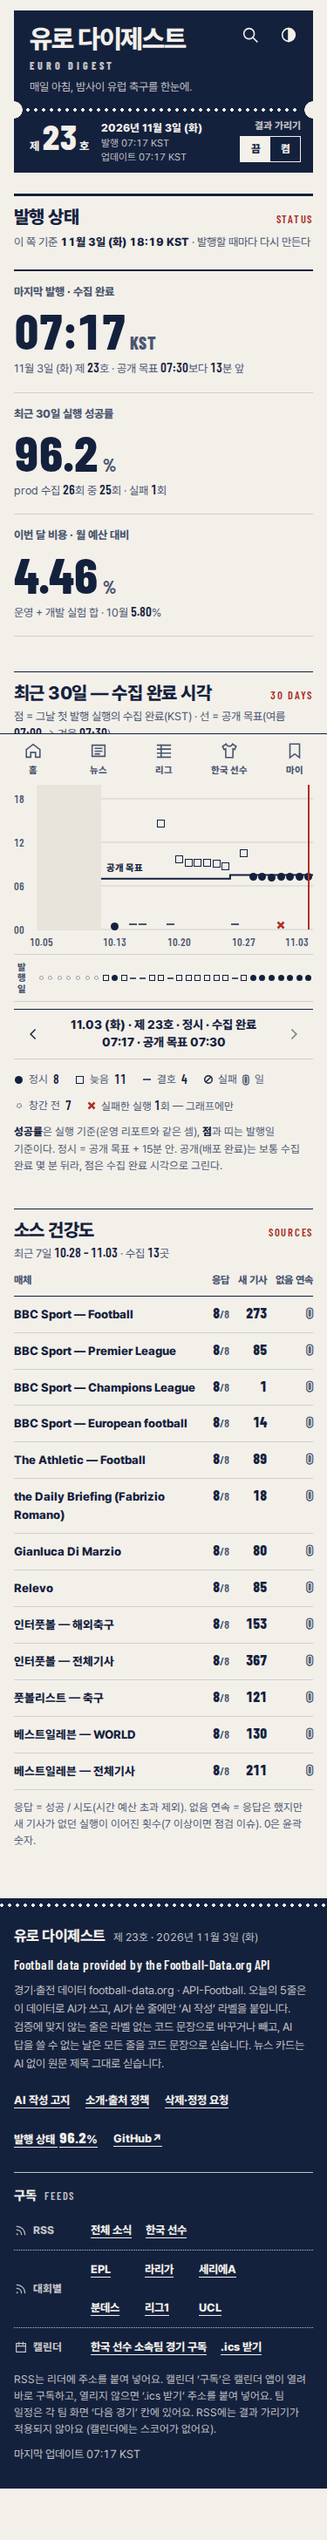
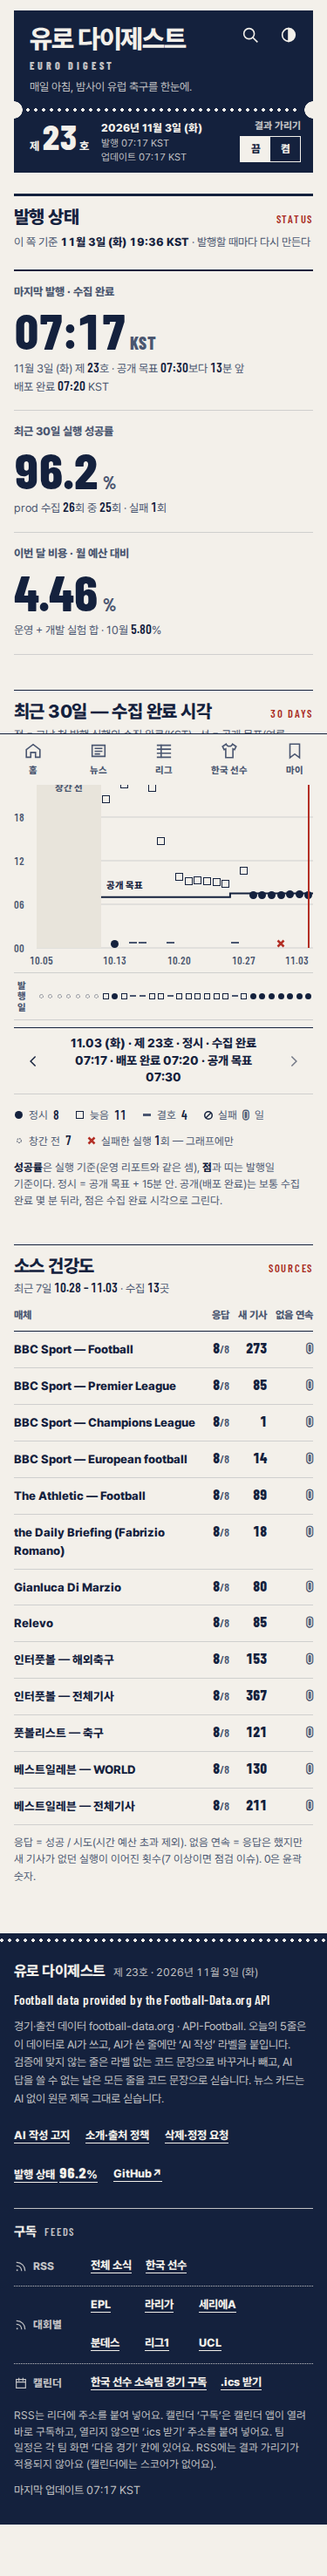
docs: M5-15 추가 결정 — 배포 완료 시각 Deployments API · /my h1 "마이 팀" (M5-15, P-1)
plan M5-15 완료 줄 덧붙임 · PRD §15 D71 ②③ · DECISIONS D3 §10 #3 · #7 · DESIGN §11.36 · 시각 비교 스크린샷 갱신(배포 줄)

diff --git a/docs/PRD.md b/docs/PRD.md
@@ -719,7 +719,7 @@
 | D68 | 이적 창 모드·팀 프로필 출력 상한 (2026-11-02 사용자 결정 — M4-03·M4-06) | ① **이적 창 모드 = 5대 리그 창의 합집합**(FR-105 — 어느 리그든 열려 있으면 켬, 6월 EPL·리그 1만 열린 기간 포함) + **마지막 마감 뒤 24시간 유예**(`TRANSFER_WINDOW_GRACE_HOURS` — 마감일 밤 공식 발표가 실리는 다음 날 아침 호까지 선별 가중·홈 이적 상단 유지, 리그 마감이 엇갈리면 모드가 끝난 시각 기준). 선별 가중 `boost` 1.5(이적 관련 최대 배수 1.2 × 1.5 × 'here we go' 1.3 = 2.34 < 한국 선수 3 — 2 이상으로 올리면 한국 선수 카드를 넘어섬) ② **창 일정**: 2026-27 겨울은 EPL·리그 1·세리에 A 공식 발표, 분데스리가·라리가는 보도 기준, **2027 여름 5개 리그는 2026 패턴 추정치 유지**(`sourceUrl` 없음 = 추정 — 발표되면 운영 루틴에서 교정) ③ **팀 프로필(LLM 호출 지점 #2) `max_tokens` 32,768**(CLAUDE §1-3 승인 — 20팀 묶음 실측 thinking 10~16K로 16,384에서 5요청 중 3 잘림, thinking은 팀 수와 무관해 묶음을 줄여도 요청 수만 늘어남). 20팀 묶음·5요청 유지, 다른 호출 지점은 16,384 그대로. 단계 상한 12→18분 · LLM 창 10→15분 · weekly 작업 상한 35→40분. 실측 dev 전체 1회 약 $0.025/주 | FR-53·FR-56·FR-105, D28·D57, plan M4-03·M4-06 |
 | D69 | PWA 오프라인 화면·새 버전 토스트 (2026-11-02 사용자 결정 — M4-13) | ① **공개 URL `/offline/` 추가**(noindex·sitemap 제외): 서비스워커가 네트워크·캐시 모두 실패한 페이지 이동을 `/offline/?from=<경로>`로 보낸다(원래 주소에 그리면 Next 라우터가 주소를 바꾸는 문제) — 404와 같은 D0 문법, '다시 시도' + '저장해 둔 호'(최근 3일) ② **새 버전 토스트 "새 소식이 있어요 · 새로고침"은 닫을 때까지 유지**(DESIGN §9.2 Toast 2.4초 자동 사라짐의 예외 — 행동 버튼이 있어서). 첫 설치에는 띄우지 않고, 사실상 발행마다 새 버전 | FR-120·FR-121, DESIGN §9.2·§11.25, plan M4-13 |
 | D70 | M4 검증 결정 3건 (2026-11-02 사용자 결정 — M4 코드 리뷰·M4-09) | ① **검색 단축키는 ⌘K/Ctrl+K만**(FR-132의 '/' 제거 — WCAG 2.1.4 문자 키 단축키, 음성 입력 사용자의 오작동 방지). 마스트헤드 키 표시는 `Ctrl K`(하이드레이션 값) → Mac이면 `⌘K`, `aria-keyshortcuts` ② **구독형 캘린더(팀별·한국 선수 소속팀 묶음)는 `webcal://` 구독 링크 + https '.ics 받기' 병기**(FR-115·FR-123 — https만이면 iOS·데스크톱 캘린더가 한 번 가져오기로 처리), 경기별 .ics는 https 그대로 ③ **팀 한줄평 블록은 결과 가리기에서 가리지 않음**(주 1회 집계 문장 — D64 ④ 집계값 원칙, DECISIONS M4 미니 게이트 #5의 예외로 기록). 함께: 온보딩 진입 줄 버튼 문구 '다음에' → **'건너뛰기'**(동작은 영구 건너뛰기 — '나중에 다시'로 읽히지 않게) | FR-37·FR-113·FR-115·FR-123·FR-132, D64, plan M4-09·M4-14·M4-16 |
-| D71 | D3 아이콘·OG·빈 상태·상태 페이지 디자인 결정 (2026-11-02~03 사용자 결정 — D3 시안 선택) | ① **시안**: C 등번호 기반 2차 혼합안. 에이전트 추천 1차 혼합안(A 아이콘·OG + C 빈 상태 + B `/offline/`·`/status`, 커밋 5552dbf)은 사용자 검토 뒤 기각. **앱 아이콘·파비콘 = C 스타일 "ED"**(벽돌 레드 면 + 지면색 ED + 짧은 괘선 — 숫자 "5" 대신, 16·32px 픽셀 격자, favicon.svg·ico 추가) — 상세·혼합 지시는 `docs/design/DECISIONS.md` D3 절 ② **OG**: 경로 `/og/default.png`·`/og/news/{date}.png`·`/og/competitions/{comp}.png`·`/og/teams/{team}.png` 확정(plan M5-01 ❓ 해소), 홈 = 기본 OG·`/news/` = 최신 호 날짜 OG, `twitter:card` `summary` → `summary_large_image` + `og:image:alt`. 기본·날짜 = 벽돌 레드 면 + 큰 숫자, 대회·팀 = 크림 면 + 거대 약칭·약어. **결과 노출 0**(워드마크·호수·날짜·대회·팀 이름만 — D30). (2026-11-03 사용자 결정 — M5-01) **쪽 이름형 OG** `/og/pages/{name}.png`(기본 OG에 쪽 제목만 바꾼 판) = 고정 쪽(`/korean-players/`·`/national-team/`·`/transfers/`·`/tonight/`·`/search/`·`/my/`·`/about/`), 한국 선수 개별 쪽·주간 리포트는 기본 OG. (2026-11-03 사용자 결정 — M5-15) `/status/`도 쪽 이름형 OG · 대회 OG는 거대 약칭과 정식 이름이 글자 그대로 같으면(라리가) 정식 이름 줄을 숨긴다(다른 대회 그대로) · `/my/` 쪽 제목(OG 글자·og:title·문서 제목) = "마이 팀"(내비 라벨 "마이" 그대로) ③ **`/status`**: 비용은 예산 대비 %만(prod+dev 합산, 금액 비공개), 성공률 = 실행 기준 %(KPI와 같은 셈) + 30칸 발행일 띠(정시·늦음·결호·실패를 따로), 배포 완료 시각은 지금 데이터가 없어 자리(M5-15에서 출처 결정). (2026-11-03 사용자 결정 — M5-15) **`/status/`는 noindex·sitemap 제외**(뒤표지 '발행 상태 {n}%' 링크로만 들어온다), 배포 완료 시각은 실행 기록에 없어 칸을 숨긴다(출처 제안은 plan M5-15) ④ **빈 상태 = 기존 모티프만 조합한 조형**(그림 0 — '일러스트' = 조형, DESIGN §1 원칙 4 유지): 홈 5줄 **S4 가족**(경기 없음·A매치 휴식기·비시즌이 한 틀 — 이유 블록만 다름, 비시즌 날짜 34px → N2), **A매치 휴식기 변형 신설**(DECISIONS M1-37 #2 변경) — 판정: 홈 5줄에서만(날짜 아카이브는 S4)·mode `empty` + `no-matches`(결과 지연은 오류 상자 그대로 — D60)·우선순위 비시즌 → A매치 휴식기(`restPeriodOf` `international-window`) → S4·실을 경기 = `nationalWindowOn` 기간 경기(연기 제외, 킥오프가 지난 경기는 "끝남"만 — 스코어 없음)·`national-team.json`이 없으면 S4. 검색 결과 없음 = 윤곽 0 N2, `/offline/` = 저장한 호 수 + 호수 거터 목록 ⑤ **팀 OG 거대 약어 대비 내부 하한 5.3**: 채움 = 상의 → 하의 → 잉크 중 크림 면 대비 5.3 이상인 첫 색(111팀 중 45팀 바뀜 — 하의 16·잉크 29, 최저 5.32, 데이터·스키마 변경 없음) ⑥ **DESIGN §2.2 규칙 변경**: '레드를 넓은 면으로 깔지 않는다(다크 티켓만 예외)'의 예외에 앱 아이콘·파비콘·OG 기본/날짜 면·스플래시를 더한다(화면 안 규칙 그대로). **스플래시 manifest `background_color` = `#9E2F28`**(아이콘 면과 같은 색, 라이트·다크 공통). 새 토큰 0, OG 견본 변수 `--og-*` 4개 폐기 | DR-07·DR-10·FR-120·FR-121·FR-130, D12·D13·D30·D60, plan D3-03·M5-01·M5-02·M5-15·M5-17, `docs/design/d3/`, DECISIONS D3 |
+| D71 | D3 아이콘·OG·빈 상태·상태 페이지 디자인 결정 (2026-11-02~03 사용자 결정 — D3 시안 선택) | ① **시안**: C 등번호 기반 2차 혼합안. 에이전트 추천 1차 혼합안(A 아이콘·OG + C 빈 상태 + B `/offline/`·`/status`, 커밋 5552dbf)은 사용자 검토 뒤 기각. **앱 아이콘·파비콘 = C 스타일 "ED"**(벽돌 레드 면 + 지면색 ED + 짧은 괘선 — 숫자 "5" 대신, 16·32px 픽셀 격자, favicon.svg·ico 추가) — 상세·혼합 지시는 `docs/design/DECISIONS.md` D3 절 ② **OG**: 경로 `/og/default.png`·`/og/news/{date}.png`·`/og/competitions/{comp}.png`·`/og/teams/{team}.png` 확정(plan M5-01 ❓ 해소), 홈 = 기본 OG·`/news/` = 최신 호 날짜 OG, `twitter:card` `summary` → `summary_large_image` + `og:image:alt`. 기본·날짜 = 벽돌 레드 면 + 큰 숫자, 대회·팀 = 크림 면 + 거대 약칭·약어. **결과 노출 0**(워드마크·호수·날짜·대회·팀 이름만 — D30). (2026-11-03 사용자 결정 — M5-01) **쪽 이름형 OG** `/og/pages/{name}.png`(기본 OG에 쪽 제목만 바꾼 판) = 고정 쪽(`/korean-players/`·`/national-team/`·`/transfers/`·`/tonight/`·`/search/`·`/my/`·`/about/`), 한국 선수 개별 쪽·주간 리포트는 기본 OG. (2026-11-03 사용자 결정 — M5-15) `/status/`도 쪽 이름형 OG · 대회 OG는 거대 약칭과 정식 이름이 글자 그대로 같으면(라리가) 정식 이름 줄을 숨긴다(다른 대회 그대로) · `/my/` 쪽 제목(OG 글자·og:title·문서 제목·h1) = "마이 팀"(내비 라벨 "마이" 그대로) ③ **`/status`**: 비용은 예산 대비 %만(prod+dev 합산, 금액 비공개), 성공률 = 실행 기준 %(KPI와 같은 셈) + 30칸 발행일 띠(정시·늦음·결호·실패를 따로), 배포 완료 시각은 지금 데이터가 없어 자리(M5-15에서 출처 결정). (2026-11-03 사용자 결정 — M5-15) **`/status/`는 noindex·sitemap 제외**(뒤표지 '발행 상태 {n}%' 링크로만 들어온다), 배포 완료 시각은 **GitHub Deployments API**(deploy.yml 빌드 때 github-pages 지난 배포 성공 시각을 읽어 지난 발행일에 싣고 오늘 호는 '배포 중', 읽기 실패·로컬 빌드는 칸 숨김 — `deployments: read`는 빌드 job에만, 2026-11-03 사용자 결정) ④ **빈 상태 = 기존 모티프만 조합한 조형**(그림 0 — '일러스트' = 조형, DESIGN §1 원칙 4 유지): 홈 5줄 **S4 가족**(경기 없음·A매치 휴식기·비시즌이 한 틀 — 이유 블록만 다름, 비시즌 날짜 34px → N2), **A매치 휴식기 변형 신설**(DECISIONS M1-37 #2 변경) — 판정: 홈 5줄에서만(날짜 아카이브는 S4)·mode `empty` + `no-matches`(결과 지연은 오류 상자 그대로 — D60)·우선순위 비시즌 → A매치 휴식기(`restPeriodOf` `international-window`) → S4·실을 경기 = `nationalWindowOn` 기간 경기(연기 제외, 킥오프가 지난 경기는 "끝남"만 — 스코어 없음)·`national-team.json`이 없으면 S4. 검색 결과 없음 = 윤곽 0 N2, `/offline/` = 저장한 호 수 + 호수 거터 목록 ⑤ **팀 OG 거대 약어 대비 내부 하한 5.3**: 채움 = 상의 → 하의 → 잉크 중 크림 면 대비 5.3 이상인 첫 색(111팀 중 45팀 바뀜 — 하의 16·잉크 29, 최저 5.32, 데이터·스키마 변경 없음) ⑥ **DESIGN §2.2 규칙 변경**: '레드를 넓은 면으로 깔지 않는다(다크 티켓만 예외)'의 예외에 앱 아이콘·파비콘·OG 기본/날짜 면·스플래시를 더한다(화면 안 규칙 그대로). **스플래시 manifest `background_color` = `#9E2F28`**(아이콘 면과 같은 색, 라이트·다크 공통). 새 토큰 0, OG 견본 변수 `--og-*` 4개 폐기 | DR-07·DR-10·FR-120·FR-121·FR-130, D12·D13·D30·D60, plan D3-03·M5-01·M5-02·M5-15·M5-17, `docs/design/d3/`, DECISIONS D3 |
 
 ### 15.1 남은 확인 사항 (M0에서 검증)
 basic_plan §12의 외부 확인 항목 중 **남은 것은 상표·저장소명(M0-31)과 2026-27 한국 선수 명단(M0-32)**이며, M0 검증 결과로 확정한 뒤 PRD 해당 항목을 갱신한다.

diff --git a/docs/plan.md b/docs/plan.md
@@ -596,8 +596,8 @@ D0에서 실제로 비교할 방향의 출발점이다. 최소 두 축(레이아
 - [ ] M5-14 문서 정리: README, CLAUDE.md §13 미결 사항, PRD 비용표·결정 사항 갱신
 - [x] M5-15 🆕 `/status` 공개 상태 페이지(빌드 시 `runs.json`·`runs-dev.json`에서 생성): 마지막 발행 시각, 최근 30일 성공률, 소스 건강도, 이번 달 비용 사용률(prod+dev 합산, 예산 대비 %) — 푸터에서 링크 (P-1)
   - 🆕 D3 이월(2026-11-03): 시안 사양 = DESIGN §9.3 D3 `/status`(PRD §15 D71 ③) — N1 숫자판 3칸(마지막 발행 · 수집 완료 KST · 최근 30일 **실행 기준** 성공률 % · 이번 달 비용 **% 두 자리만**, 금액 금지) + 점 그래프(수집 완료 시각 · 공개 목표 계단선) + **30칸 발행일 띠**(정시 · 늦음 · 결호 · 실패 ⊘ · 창간 전) + 날짜 이동(‹ › 44px · 상세 줄 `aria-live` · 화면 밖 30일 목록) + 소스 표(최근 7일). 서버 컴포넌트 + 날짜 선택 섬 1개(gzip 약 0.4KB), 빌드 때 `runs.json` · `runs-dev.json`(`publishSlot` · 창간 전 제외) · `source-health.ts` · `cost.ts` `monthToDate`에서 계산, "이 쪽 기준" = 빌드 시각. **배포 완료 시각**은 지금 데이터가 없어 자리 — 출처를 착수 때 정하고 없으면 칸을 숨긴다. 뒤표지 링크 = "발행 상태 {성공률}%"(`colophon.tsx`). 열린 것: `/status` 색인 여부(noindex · sitemap)
-  - 2026-11-03 완료: **사용자 결정(11-03)** `/status`는 noindex · sitemap 제외(뒤표지 링크로만 — DECISIONS D3 §8 #2 · PRD §15 D71 ③) · 쪽 이름형 OG(`OG_PAGES.status`) · 라리가 대회 OG 정식 이름 줄 숨김(거대 약칭과 글자 그대로 같을 때만 — `ogFullNameLine`) · `/my` 쪽 제목 "마이 팀"(OG · og:title · 문서 제목, 내비 · h1 "마이" 그대로) → `npm run build:og`(laliga · pages/my · pages/status). **구현**: 화면 모델 순수 함수 `src/lib/status-view.ts` `buildStatusView`(운영 리포트와 같은 `publishDays` · `collectRunStats` · `monthBudgetUsage` · `lastPublication` + `assessSourceHealth`) · 로더 `src/lib/data/status.ts`(기준 시각 = 빌드 시각, 뒤표지 숫자와 공유) · 지면 `src/components/status/status-body.tsx`(서버 — N1 숫자판 3칸 · 점 그래프 + 계절 계단선 · 30칸 띠 · 범례 · 화면 밖 30일 목록 · 소스 표) + 섬 `status-day-picker.tsx`(‹ › 44px · aria-live · 선택 막대 · 그래프 면 누름 — `/status` 141.9KB, 같은 셸 `/about` 대비 +0.7KB) · 뒤표지 "발행 상태 {n}%"(삭제·정정 요청 뒤, 숫자 Barlow 800 17px). **동작 불변 이동**: 소스 건강도 판정부 → `src/lib/source-health.ts`, `DEFAULT_MONTHLY_BUDGET_USD` → `src/lib/ops-metrics.ts`(scripts는 다시 내보내기만 — 같은 함수 · 값 대조 테스트). 11-03 빌드 실값: 성공률 96.2%(26회 중 25회) · 비용 11월 4.46%(10월 5.80%) · 띠 정시 8 · 늦음 11 · 결호 4 · 창간 전 7. 시안과 다른 점: 배포 완료 시각 칸 숨김 · 오늘 '발행 전' 상태(기호 없음 + 글자) · Tier 열 1024 이상(시안 520 — §7.1). 검사: 단위 status-view 19 · source-health 이동 3 · og +3 · app-shell 갱신 · e2e `status.spec`(noindex · sitemap · OG · 뒤표지 링크 = 숫자판 · 날짜 이동 · 면 누름 · 넘침 · axe 라이트/다크) · 견본 `/specimen/status/` + e2e(띠 6종 · 빈 데이터 · 모두 실패 · 섬 독립 · axe). 시각 비교 `docs/design/d3/screenshots/impl-m5-15-*`. DESIGN §11.36 · DECISIONS D3 §10
-  - 🙋 **배포 완료 시각 출처(제안 — 사용자 결정 대기)**: 이 페이지는 배포 *전에* 빌드되므로 자기 배포 완료 시각을 담을 수 없다. 실행 기록(runs.json)에도 없다. ① (추천) deploy.yml 빌드 단계가 GitHub Deployments API(`environment=github-pages` 최근 30건 · 상태 `success` 시각, `deployments: read` 권한)를 1~2회 읽어 빌드 입력으로 넘기고 `/status`가 **지난 발행일들의** 배포 완료 시각(오늘 칸은 "배포 중")을 싣는다 — 스키마 · data 커밋 변경 0, 워크플로 약 15줄 + 로더 · 화면 약 60줄, 비용 0(토큰 0 · API 호출 배포당 1~2), 로컬 빌드는 값 없음(칸 숨김) ② runs.json에 `deployedAt` 필드 + deploy 뒤 `[skip ci]` 커밋 — 스키마 · 마이그레이션 · 봇 커밋 1건 더(06~08시 push 규칙 영향), 하루 늦게 보임 ③ 칸을 없앤다(점 = 수집 완료 시각으로 충분 — 지금 상태 유지)
+  - 2026-11-03 완료: **사용자 결정(11-03)** `/status`는 noindex · sitemap 제외(뒤표지 링크로만 — DECISIONS D3 §8 #2 · PRD §15 D71 ③) · 쪽 이름형 OG(`OG_PAGES.status`) · 라리가 대회 OG 정식 이름 줄 숨김(거대 약칭과 글자 그대로 같을 때만 — `ogFullNameLine`) · `/my` 쪽 제목 "마이 팀"(OG · og:title · 문서 제목, 내비 "마이" 그대로 — h1은 아래 추가 결정) → `npm run build:og`(laliga · pages/my · pages/status). **구현**: 화면 모델 순수 함수 `src/lib/status-view.ts` `buildStatusView`(운영 리포트와 같은 `publishDays` · `collectRunStats` · `monthBudgetUsage` · `lastPublication` + `assessSourceHealth`) · 로더 `src/lib/data/status.ts`(기준 시각 = 빌드 시각, 뒤표지 숫자와 공유) · 지면 `src/components/status/status-body.tsx`(서버 — N1 숫자판 3칸 · 점 그래프 + 계절 계단선 · 30칸 띠 · 범례 · 화면 밖 30일 목록 · 소스 표) + 섬 `status-day-picker.tsx`(‹ › 44px · aria-live · 선택 막대 · 그래프 면 누름 — `/status` 141.9KB, 같은 셸 `/about` 대비 +0.7KB) · 뒤표지 "발행 상태 {n}%"(삭제·정정 요청 뒤, 숫자 Barlow 800 17px). **동작 불변 이동**: 소스 건강도 판정부 → `src/lib/source-health.ts`, `DEFAULT_MONTHLY_BUDGET_USD` → `src/lib/ops-metrics.ts`(scripts는 다시 내보내기만 — 같은 함수 · 값 대조 테스트). 11-03 빌드 실값: 성공률 96.2%(26회 중 25회) · 비용 11월 4.46%(10월 5.80%) · 띠 정시 8 · 늦음 11 · 결호 4 · 창간 전 7. 시안과 다른 점: 배포 완료 시각 칸 숨김(→ 아래 추가 결정으로 Deployments API) · 오늘 '발행 전' 상태(기호 없음 + 글자) · Tier 열 1024 이상(시안 520 — §7.1). 검사: 단위 status-view 19 · source-health 이동 3 · og +3 · app-shell 갱신 · e2e `status.spec`(noindex · sitemap · OG · 뒤표지 링크 = 숫자판 · 날짜 이동 · 면 누름 · 넘침 · axe 라이트/다크) · 견본 `/specimen/status/` + e2e(띠 6종 · 빈 데이터 · 모두 실패 · 섬 독립 · axe). 시각 비교 `docs/design/d3/screenshots/impl-m5-15-*`. DESIGN §11.36 · DECISIONS D3 §10
+  - 2026-11-03 추가(사용자 결정 2건): ① **배포 완료 시각 = Deployments API**(제안 3안 중 ①) — deploy.yml build job '배포 기록 읽기' 단계가 github-pages 배포 최근 100건(GraphQL 1회 — 30건은 개발 기간 배포가 잦아 2~3일 치뿐이라 한 쪽 최대로)의 SUCCESS 시각을 `$RUNNER_TEMP/deploys.json`에 쓰고 빌드에 `STATUS_DEPLOYS_FILE`로 넘긴다(continue-on-error · 2분 상한 · 토큰은 GH_TOKEN 환경변수만 · 권한 `deployments: read`는 build job에만 + 재사용 호출 측 ci · collect · weekly deploy job). `/status`는 발행일마다 첫 발행 수집 완료 뒤 12시간 안에 끝난 첫 배포를 배포 완료로 싣고(숫자판 첫 칸 캡션 둘째 줄 · 상세 줄), 오늘 호는 그 배포가 아직 없으면 '배포 중', 목록이 없으면(로컬 · ci 빌드 · API 실패) 칸 숨김(`deployOf` · `loadDeployTimes` — 던지지 않음). 검사: status-view +6(매칭 · 다음 날 · 배포 중 · asOf · 로더 실패 null) · `tests/deploy-workflow.test.ts`(권한 최소 범위 · 단계 순서 · continue-on-error · 토큰 비노출 · 호출 경로 3곳) · 견본 배포 줄. CI 실경로 첫 확인은 다음 배포(로그 "배포 기록 n건") ② **`/my` h1 = "마이 팀"**(내비 라벨 "마이" 그대로 — `OG_PAGES.my` 한 값)
 - [x] M5-17 🆕 D3 화면 조형 적용(D3 이월 — DECISIONS D3 #11~#16 · DESIGN §9.3 D3, PRD §15 D71 ④): 홈 5줄 **S4 가족**(경기 없음 · A매치 휴식기 · 비시즌 — `BriefRest` 틀 + `BriefOffSeason`을 이유 블록으로, 비시즌 날짜 34px → `--num-n2`) · **A매치 휴식기 변형 신설**(서버 — 판정 규칙 DECISIONS D3 #12: 홈만 · `no-matches`만 · 비시즌 → A매치 휴식기 → S4 · `nationalWindowOn` 경기 · 연기 제외; 우선순위 · results-pending · 아카이브 · 연기 · 끝남 · `kickoffTbd` 단위 테스트 + 견본 e2e 변형 2개) · **검색 결과 없음**(윤곽 0 `--num-n2` + 유형별 윤곽 0, 결과 변화 때만 찍힘) · **`/offline/`**(저장한 호 수 N2 + 호수 거터 목록 — `recentIssueDates` 그대로, 서버 · JS 0) · 뒤표지 '발행 상태' 링크(M5-15와 함께). **결과 노출 0** — 휴식기 변형의 지난 경기는 '끝남'만, 스코어 없음. 375/1280 × 라이트/다크 스크린샷을 D3 혼합안과 비교(CLAUDE §4) (DR-07, FR-71, FR-121, FR-130)
   - 2026-11-03 완료: **S4 가족** — `BriefRest` 틀(거터 레드 윤곽 0 · "쉽니다") 안 이유 블록만 바뀐다(경기 없음 · A매치 휴식기 · 비시즌 — `BriefOffSeason`을 이유 블록으로, 비시즌 날짜 34px → `--num-n2` `MM.DD` + 낱말 · 연도). 판정 = 순수 함수 `src/lib/brief-empty.ts` `briefEmptyState`(결과 지연 → 오류 상자 · 아카이브 → 경기 없음 · 홈 비시즌 → A매치 휴식기 → 경기 없음, `nationalWindowOn(발행일)` 경기 · 연기 제외 · 킥오프 순, "끝남" = 빌드 시각 기준 · `kickoffTbd`는 날짜로만, **화면 모델에 스코어 · 결과 필드 없음**). "A매치 섹션으로 ↓"는 홈 A매치 섹션(`id="national"`)을 그린 빌드에서만. **검색 결과 없음** = 윤곽 0 N2 + 유형 4개 윤곽 0 · 블록이 생길 때만 찍힘. **`/offline/`** = 저장한 호 수 N2(0이면 윤곽) + "최근 3일 {범위}" + 호수 거터(N3 + "호") 목록(서버 · JS 0). 뒤표지 '발행 상태' 링크는 **M5-15로 넘김**(성공률 출처가 `/status` 계산). 검사: 단위 +22(brief-empty 13 · brief-rest 5 · offline-page 3 · search-ui 1, states 갱신) · 견본 e2e 변형 2개(A매치 경기 전 · 첫 경기 뒤) + 비시즌 N2 = 155 통과 · 관련 e2e(home · states · search · pwa · a11y · national-team) 543 통과 · 번들 최대 `/my` 153.0KB 그대로. 시각 비교 `docs/design/d3/screenshots/impl-m5-17-*`(24장) — 차이: 큰 숫자 고정폭(혼합안은 `font` 단축 속성으로 비례 숫자 — DECISIONS D3 §9 #4). DESIGN §11.35 · DECISIONS D3 §9
 - [ ] M5-16 정식 공개 체크리스트 통과 → 공개

diff --git a/docs/design/DECISIONS.md b/docs/design/DECISIONS.md
@@ -757,8 +757,8 @@ M4 시각 검증 · 번들 재확인 · 이월 처리와 M4 코드 리뷰 반영
 |---|---|---|---|
 | 1 | 색인 | `/status/` noindex · canonical 없음 · sitemap 제외(§8 #2) · 쪽 이름형 OG | **사용자 결정** — 운영 쪽 화면이라 뒤표지 링크로만 |
 | 2 | 계산 위치 | 순수 함수 `src/lib/status-view.ts` `buildStatusView`(운영 리포트와 같은 `publishDays` · `collectRunStats` · `monthBudgetUsage` · `lastPublication` · `assessSourceHealth`). 소스 건강도 판정부는 `src/lib/source-health.ts`로, 월 예산 기본값은 `src/lib/ops-metrics.ts`로 옮겼다(scripts는 다시 내보내기만 — 동작 불변) | 화면 코드가 scripts/를 import하지 않는 관례. 뒤표지 숫자와 숫자판이 같은 함수(`recentRunStats`) |
-| 3 | 배포 완료 시각 | **칸을 숨긴다**(시안의 '자리' 상자 없음) | 실행 기록에 배포 시각이 없고, 이 페이지는 배포 전에 빌드된다 — 출처 제안은 plan M5-15 메모(스키마 · 워크플로 변경이라 사용자 결정) |
+| 3 | 배포 완료 시각 | **Deployments API**(2026-11-03 **사용자 결정** — 제안 ①): deploy.yml 빌드 때 github-pages 지난 배포 성공 시각을 읽어, 발행일마다 첫 발행 수집 완료 뒤 12시간 안의 첫 배포를 싣는다(숫자판 첫 칸 캡션 둘째 줄 · 상세 줄). 오늘 호는 '배포 중', 목록이 없으면 숨김 | 이 페이지는 배포 *전에* 빌드돼 자기 배포 시각을 알 수 없다 — 지난 배포만 확정 값. 스키마 · data 커밋 변경 0 |
 | 4 | 오늘 '발행 전' | 공개 목표 + 15분 전에 빌드하면 오늘 칸은 기호 없음 + 상세 줄 "발행 전"(범례에도 그때만) | 시안에 없던 상태(`publishDay` pending) — 결호로 보이지 않게 |
 | 5 | 원 · 브레이크포인트 | 점 · 띠의 원(● · 점선 원)은 SVG, 소스 표 Tier 열 · 표 숫자 18px는 1024 이상(시안 520px 기준) | DESIGN §9.1 `rounded-*` 금지 · §7.1 lg · xl만 |
 | 6 | 라리가 OG | 대회 OG에서 거대 약칭과 정식 이름이 **글자 그대로** 같으면 정식 이름 줄을 빼고 여백(`ogFullNameLine`). 띄어쓰기만 다른 세리에A · 리그1은 그대로 | **사용자 결정** — 같은 이름 두 번 |
-| 7 | `/my` 쪽 제목 | OG 글자 · og:title · 문서 제목 = "마이 팀"(`OG_PAGES.my`), 내비 라벨 · h1은 "마이" 그대로 | **사용자 결정** |
+| 7 | `/my` 쪽 제목 | OG 글자 · og:title · 문서 제목 · h1 = "마이 팀"(`OG_PAGES.my`), 내비 라벨은 "마이" 그대로 | **사용자 결정**(h1은 같은 날 추가 결정) |
